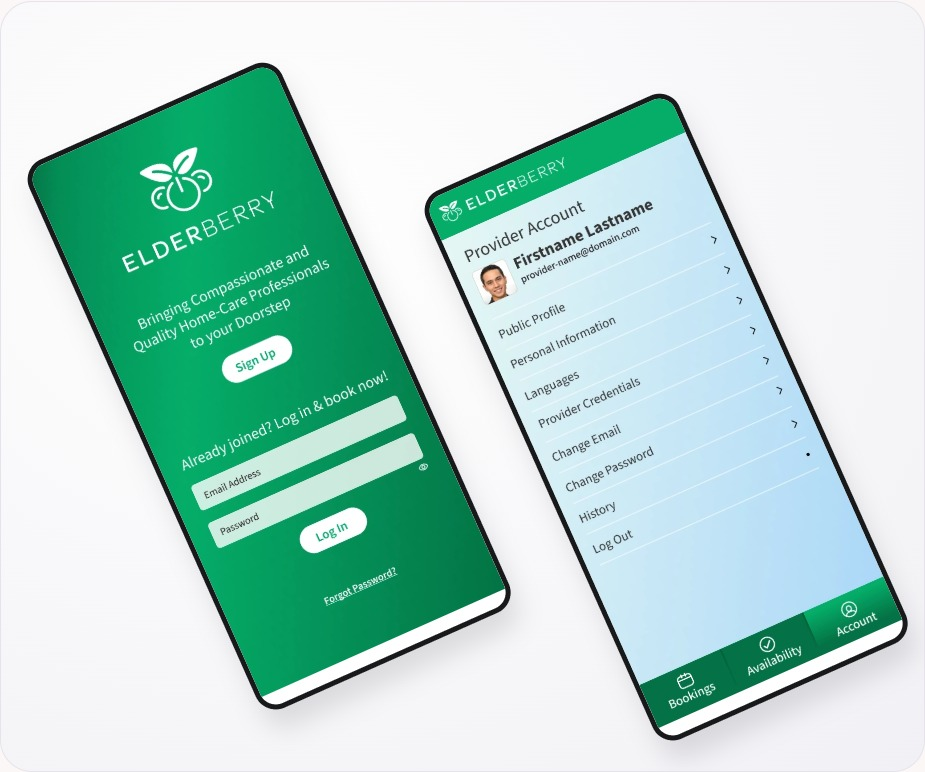
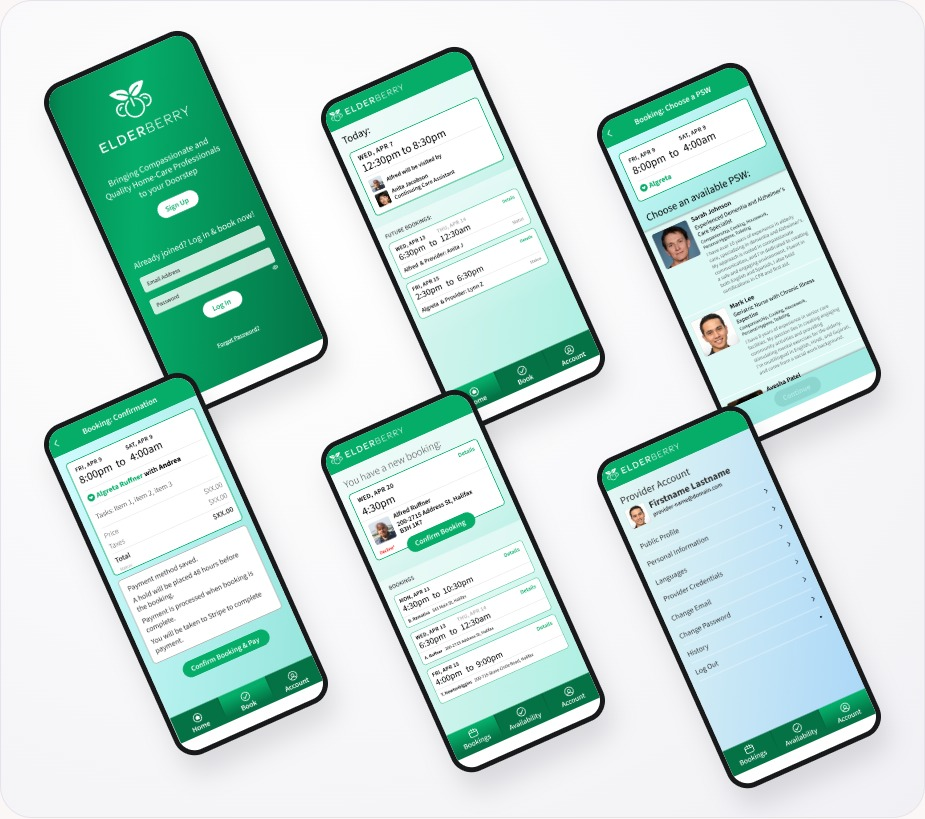
Expand Elderberry gallery with supplied design screens and product flows

diff --git a/site/public/projects/elderberry/index.html b/site/public/projects/elderberry/index.html
@@ -4,7 +4,7 @@
  <div class="header-right"><button class="theme icon" aria-label="Switch colour theme">◔</button><nav aria-label="Main navigation"><a href="/work/">Personal work</a><a href="/client-work/">Client work</a><a href="/#about">About</a><a href="/resume/">Résumé</a></nav><a class="outline contact-link" href="/#contact">Let’s talk <span>↗</span></a><button class="menu icon" aria-label="Open menu" aria-controls="menu-dialog" aria-expanded="false"><span></span><span></span></button></div>
 </header>
 <dialog id="menu-dialog" aria-labelledby="menu-title"><button class="close icon" aria-label="Close menu">×</button><p class="eyebrow" id="menu-title">EXPLORE</p><a href="/"><small>01</small>Home</a><a href="/work/"><small>02</small>Personal work <sup>02</sup></a><a href="/client-work/"><small>03</small>Client work <sup>10</sup></a><a href="/#about"><small>04</small>About</a><a href="/resume/"><small>05</small>Résumé</a><a href="/#contact"><small>06</small>Contact</a><div class="menu-bottom"><span>Mobile & AI Engineer<br>Calgary, Alberta, Canada</span><a href="mailto:ogbonnagideonofficial@gmail.com">Email me ↗</a></div></dialog>
-<main id="main"><section class="project-intro"><a class="text-link" href="/client-work/">← Client & team work</a><span class="section-label">HEALTHCARE / COMMERCIAL</span><h1>Elderberry<span class="orange">.</span></h1><p class="project-deck">Care, with connection.</p><div class="project-meta"><div><span>MY ROLE</span><p>Senior Mobile Engineer · 2023–2025</p></div><div><span>TECHNOLOGY / FOCUS</span><p>Flutter · Swift · Kotlin · Firebase · REST</p></div></div></section><figure class="project-cover"><img src="/assets/elderberry.jpg" alt="Archived Elderberry product presentation"><figcaption>From the original project portfolio · archived product visual</figcaption></figure><article class="project-story"><section><span class="section-label">01 / CONTEXT</span><div><h2>Care has two sides to coordinate.</h2><p>Families need to find home-care support that fits, while providers need a clear view of when they are needed. Elderberry brings those needs together through profiles, availability and bookings. The mobile experience needs to keep changing care schedules understandable.</p></div></section><section><span class="section-label">02 / CONTRIBUTION</span><div><h2>My part in the product.</h2><p>As a Senior Mobile Engineer, I worked on caregiver-facing features across Flutter and native iOS and Android. My work covered scheduling, bookings, reporting and live tracking, alongside authentication and API integration.</p></div></section><section><span class="section-label">03 / ENGINEERING</span><div><h2>Keeping the experience in step.</h2><p>I integrated REST services and Firebase/Firestore synchronization, using modular architecture and deliberate error handling. Testing, profiling, debugging and code review supported maintainability as the product grew. I collaborated with Product, Design, Backend and QA across delivery.</p></div></section><section><span class="section-label">03B / PRODUCT JOURNEY</span><div><h2>How the experience connects.</h2><ol class="product-journey"><li><strong>Find support</strong><span>Enter the care-coordination experience.</span></li><li><strong>Arrange a booking</strong><span>Connect availability with the support needed.</span></li><li><strong>Manage the day</strong><span>Keep provider schedules and service updates accessible.</span></li></ol></div></section><section class="app-detail-gallery"><span class="section-label">04 / APP SCREENS</span><div><h2>Inside the app.</h2><figure><div class="app-collage phone-collage count-2" aria-label="Elderberry app screen collage"><button class="collage-shot shot-1 " data-screen="/assets/screens/elderberry-51.webp" data-caption="Welcome & sign in" aria-label="Enlarge Elderberry: Welcome & sign in"><img src="/assets/screens/elderberry-51.webp" alt="Welcome & sign in" width="414" height="894" loading="eager"></button><button class="collage-shot shot-2 " data-screen="/assets/screens/elderberry-39.webp" data-caption="Provider account" aria-label="Enlarge Elderberry: Provider account"><img src="/assets/screens/elderberry-39.webp" alt="Provider account" width="414" height="894" loading="eager"></button></div><div class="gallery-toolbar"><span>2 views</span><a href="/assets/collages/elderberry.jpg" download>Download collage ↓</a></div><p class="gallery-hint">Select a screen for a closer look ↗</p><div class="screen-rail" aria-label="All project screens"><button data-screen="/assets/screens/elderberry-51.webp" data-caption="Welcome & sign in" aria-label="Enlarge Welcome & sign in"><img src="/assets/screens/elderberry-51.webp" alt="" width="414" height="894" loading="lazy"><span>Welcome & sign in</span></button><button data-screen="/assets/screens/elderberry-39.webp" data-caption="Provider account" aria-label="Enlarge Provider account"><img src="/assets/screens/elderberry-39.webp" alt="" width="414" height="894" loading="lazy"><span>Provider account</span></button></div><figcaption>Original screens from the product archive. Each view is distinct.</figcaption></figure></div></section><aside><p class="source-link">Product context: <a href="https://elderberry.care/">Read the product source ↗</a></p><span class="section-label">PROJECT CONTEXT</span><p>A commercial team project. The images here are archived portfolio visuals, not a representation of the current release.</p></aside></article><div class="next-project"><a href="/projects/superpow/"><span>NEXT PROJECT</span><strong>Superpow! ↗</strong></a><a class="back-collection" href="/client-work/">All client & team work ↗</a></div></main><footer id="contact" class="contact-footer" aria-labelledby="contact-title">
+<main id="main"><section class="project-intro"><a class="text-link" href="/client-work/">← Client & team work</a><span class="section-label">HEALTHCARE / COMMERCIAL</span><h1>Elderberry<span class="orange">.</span></h1><p class="project-deck">Care, with connection.</p><div class="project-meta"><div><span>MY ROLE</span><p>Senior Mobile Engineer · 2023–2025</p></div><div><span>TECHNOLOGY / FOCUS</span><p>Flutter · Swift · Kotlin · Firebase · REST</p></div></div></section><figure class="project-cover"><img src="/assets/elderberry.jpg" alt="Archived Elderberry product presentation"><figcaption>From the original project portfolio · archived product visual</figcaption></figure><article class="project-story"><section><span class="section-label">01 / CONTEXT</span><div><h2>Care has two sides to coordinate.</h2><p>Families need to find home-care support that fits, while providers need a clear view of when they are needed. Elderberry brings those needs together through profiles, availability and bookings. The mobile experience needs to keep changing care schedules understandable.</p></div></section><section><span class="section-label">02 / CONTRIBUTION</span><div><h2>My part in the product.</h2><p>As a Senior Mobile Engineer, I worked on caregiver-facing features across Flutter and native iOS and Android. My work covered scheduling, bookings, reporting and live tracking, alongside authentication and API integration.</p></div></section><section><span class="section-label">03 / ENGINEERING</span><div><h2>Keeping the experience in step.</h2><p>I integrated REST services and Firebase/Firestore synchronization, using modular architecture and deliberate error handling. Testing, profiling, debugging and code review supported maintainability as the product grew. I collaborated with Product, Design, Backend and QA across delivery.</p></div></section><section><span class="section-label">03B / PRODUCT JOURNEY</span><div><h2>How the experience connects.</h2><ol class="product-journey"><li><strong>Find support</strong><span>Enter the care-coordination experience.</span></li><li><strong>Arrange a booking</strong><span>Connect availability with the support needed.</span></li><li><strong>Manage the day</strong><span>Keep provider schedules and service updates accessible.</span></li></ol></div></section><section><span class="section-label">PRODUCT FLOWS</span><div><h2>One service. Two connected journeys.</h2><h3>For customers and families</h3><p>The supplied design screens show today’s care visit, upcoming bookings, care-receiver profiles and a choice of available personal support workers. Booking details bring together the visit window, tasks, provider and cost summary before confirmation. History and separate provider/platform feedback complete the customer journey.</p><h3>For care professionals</h3><p>Providers see new requests, confirm or decline a booking, review visit details and follow bookings in progress. Account options cover profile information, languages and credentials. After a visit, the follow-up flow separates facilitator notes from feedback for Elderberry.</p><h3>What these screens document</h3><p>These are supplied product design mockups, including placeholder content and example identities. They illustrate the intended workflows rather than live care records or proof that every depicted feature shipped. The confirmation design shows a payment hand-off; it does not establish the production payment implementation.</p></div></section><section class="app-detail-gallery"><span class="section-label">04 / APP SCREENS</span><div><h2>Inside the app.</h2><figure><div class="app-collage phone-collage count-6" aria-label="Elderberry app screen collage"><button class="collage-shot shot-1 " data-screen="/assets/screens/elderberry-design-01.png" data-caption="Welcome & sign in — design mockup" aria-label="Enlarge Elderberry: Welcome & sign in — design mockup"><img src="/assets/screens/elderberry-design-01.png" alt="Welcome & sign in — design mockup" width="414" height="894" loading="eager"></button><button class="collage-shot shot-2 " data-screen="/assets/screens/elderberry-design-02.png" data-caption="Customer bookings — design mockup" aria-label="Enlarge Elderberry: Customer bookings — design mockup"><img src="/assets/screens/elderberry-design-02.png" alt="Customer bookings — design mockup" width="414" height="894" loading="eager"></button><button class="collage-shot shot-3 " data-screen="/assets/screens/elderberry-design-03.png" data-caption="Choose a care professional — design mockup" aria-label="Enlarge Elderberry: Choose a care professional — design mockup"><img src="/assets/screens/elderberry-design-03.png" alt="Choose a care professional — design mockup" width="414" height="894" loading="eager"></button><button class="collage-shot shot-4 " data-screen="/assets/screens/elderberry-design-04.png" data-caption="Booking confirmation — design mockup" aria-label="Enlarge Elderberry: Booking confirmation — design mockup"><img src="/assets/screens/elderberry-design-04.png" alt="Booking confirmation — design mockup" width="414" height="894" loading="eager"></button><button class="collage-shot shot-5 " data-screen="/assets/screens/elderberry-design-05.png" data-caption="Provider booking requests — design mockup" aria-label="Enlarge Elderberry: Provider booking requests — design mockup"><img src="/assets/screens/elderberry-design-05.png" alt="Provider booking requests — design mockup" width="414" height="894" loading="eager"></button><button class="collage-shot shot-6 " data-screen="/assets/screens/elderberry-design-06.png" data-caption="Provider account — design mockup" aria-label="Enlarge Elderberry: Provider account — design mockup"><img src="/assets/screens/elderberry-design-06.png" alt="Provider account — design mockup" width="414" height="894" loading="eager"></button></div><div class="gallery-toolbar"><span>13 views</span><a href="/assets/collages/elderberry.jpg" download>Download collage ↓</a></div><p class="gallery-hint">Select a screen for a closer look ↗</p><div class="screen-rail" aria-label="All project screens"><button data-screen="/assets/screens/elderberry-design-01.png" data-caption="Welcome & sign in — design mockup" aria-label="Enlarge Welcome & sign in — design mockup"><img src="/assets/screens/elderberry-design-01.png" alt="" width="414" height="894" loading="lazy"><span>Welcome & sign in — design mockup</span></button><button data-screen="/assets/screens/elderberry-design-02.png" data-caption="Customer bookings — design mockup" aria-label="Enlarge Customer bookings — design mockup"><img src="/assets/screens/elderberry-design-02.png" alt="" width="414" height="894" loading="lazy"><span>Customer bookings — design mockup</span></button><button data-screen="/assets/screens/elderberry-design-03.png" data-caption="Choose a care professional — design mockup" aria-label="Enlarge Choose a care professional — design mockup"><img src="/assets/screens/elderberry-design-03.png" alt="" width="414" height="894" loading="lazy"><span>Choose a care professional — design mockup</span></button><button data-screen="/assets/screens/elderberry-design-04.png" data-caption="Booking confirmation — design mockup" aria-label="Enlarge Booking confirmation — design mockup"><img src="/assets/screens/elderberry-design-04.png" alt="" width="414" height="894" loading="lazy"><span>Booking confirmation — design mockup</span></button><button data-screen="/assets/screens/elderberry-design-05.png" data-caption="Provider booking requests — design mockup" aria-label="Enlarge Provider booking requests — design mockup"><img src="/assets/screens/elderberry-design-05.png" alt="" width="414" height="894" loading="lazy"><span>Provider booking requests — design mockup</span></button><button data-screen="/assets/screens/elderberry-design-06.png" data-caption="Provider account — design mockup" aria-label="Enlarge Provider account — design mockup"><img src="/assets/screens/elderberry-design-06.png" alt="" width="414" height="894" loading="lazy"><span>Provider account — design mockup</span></button><button data-screen="/assets/screens/elderberry-design-07.png" data-caption="Customer feedback — design mockup" aria-label="Enlarge Customer feedback — design mockup"><img src="/assets/screens/elderberry-design-07.png" alt="" width="414" height="894" loading="lazy"><span>Customer feedback — design mockup</span></button><button data-screen="/assets/screens/elderberry-design-08.png" data-caption="Customer booking details — design mockup" aria-label="Enlarge Customer booking details — design mockup"><img src="/assets/screens/elderberry-design-08.png" alt="" width="414" height="894" loading="lazy"><span>Customer booking details — design mockup</span></button><button data-screen="/assets/screens/elderberry-design-09.png" data-caption="Booking history — design mockup" aria-label="Enlarge Booking history — design mockup"><img src="/assets/screens/elderberry-design-09.png" alt="" width="414" height="894" loading="lazy"><span>Booking history — design mockup</span></button><button data-screen="/assets/screens/elderberry-design-10.png" data-caption="Care receiver profiles — design mockup" aria-label="Enlarge Care receiver profiles — design mockup"><img src="/assets/screens/elderberry-design-10.png" alt="" width="414" height="894" loading="lazy"><span>Care receiver profiles — design mockup</span></button><button data-screen="/assets/screens/elderberry-design-11.png" data-caption="Provider bookings in progress — design mockup" aria-label="Enlarge Provider bookings in progress — design mockup"><img src="/assets/screens/elderberry-design-11.png" alt="" width="414" height="894" loading="lazy"><span>Provider bookings in progress — design mockup</span></button><button data-screen="/assets/screens/elderberry-design-12.png" data-caption="Provider booking details — design mockup" aria-label="Enlarge Provider booking details — design mockup"><img src="/assets/screens/elderberry-design-12.png" alt="" width="414" height="894" loading="lazy"><span>Provider booking details — design mockup</span></button><button data-screen="/assets/screens/elderberry-design-13.png" data-caption="Provider follow-up — design mockup" aria-label="Enlarge Provider follow-up — design mockup"><img src="/assets/screens/elderberry-design-13.png" alt="" width="414" height="894" loading="lazy"><span>Provider follow-up — design mockup</span></button></div><figcaption>Supplied Elderberry design mockups with example content. Select any view to enlarge it.</figcaption></figure></div></section><aside><p class="source-link">Product context: <a href="https://elderberry.care/">Read the product source ↗</a></p><span class="section-label">PROJECT CONTEXT</span><p>A commercial team project. The images here are archived portfolio visuals, not a representation of the current release.</p></aside></article><div class="next-project"><a href="/projects/superpow/"><span>NEXT PROJECT</span><strong>Superpow! ↗</strong></a><a class="back-collection" href="/client-work/">All client & team work ↗</a></div></main><footer id="contact" class="contact-footer" aria-labelledby="contact-title">
  <div class="footer-topline"><span class="eyebrow">THE NEXT GOOD THING STARTS WITH A CONVERSATION</span><span class="footer-location"><i aria-hidden="true"></i> Calgary, Canada</span></div>
  <div class="footer-invitation" data-reveal>
   <div><h2 id="contact-title">Have an idea?<br><span>Let’s make it real.</span></h2><p>Thoughtful mobile experiences. Useful AI.<br>Engineering that connects the two.</p></div>

diff --git a/site/source/scripts/build.py b/site/source/scripts/build.py
@@ -87,7 +87,7 @@ page('Client & team work',client_page,'interactions/index.html')
 def project_body(project):
  body=project['body']
  if project['slug']=='gladefinance' or project['slug'] in galleries:
-  caption='Two public app-store screenshots and four source-derived Flutter previews with demo data. Preview layouts are adapted from the app code; they are not production captures.' if project['slug']=='carter' else 'Original screens from the product archive. Each view is distinct.'
+  caption='Two public app-store screenshots and four source-derived Flutter previews with demo data. Preview layouts are adapted from the app code; they are not production captures.' if project['slug']=='carter' else ('Supplied Elderberry design mockups with example content. Select any view to enlarge it.' if project['slug']=='elderberry' else 'Original screens from the product archive. Each view is distinct.')
   gallery='<section class="app-detail-gallery"><span class="section-label">04 / APP SCREENS</span><div><h2>Inside the app.</h2><figure>'+detail_visual(project)+'<figcaption>'+caption+'</figcaption></figure></div></section>'
   body=body.replace('<aside>',gallery+'<aside>',1)
  if project.get('kind')=='client':
